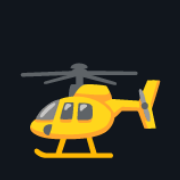
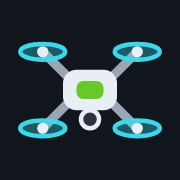
dronefly: 헬리콥터(🚁) 대신 그린 쿼드콥터 그림(img/dronefly.svg · 탭 아이콘), 신청 기본 날짜는 내일
Claude-Session: https://claude.ai/code/session_01MHSSRBsQKpCR2DHwkzaDkG

Changed region(s): [[0.0833, 0.2222, 0.9167, 0.8889]]

diff --git a/src/main/webapp/dronefly.html b/src/main/webapp/dronefly.html
@@ -12,7 +12,7 @@
 <meta property="og:description" content="내 위치가 어느 공역 안인지, 승인이 필요한지, 가까운 허용구역(UA)까지.">
 <meta property="og:image" content="https://routefly.kr/routefly/img/og.jpg?v=3">
 <meta property="og:url" content="https://routefly.kr/routefly/dronefly.html">
-<link rel="icon" type="image/png" sizes="32x32" href="img/dronefly-32.png"><link rel="icon" type="image/png" sizes="192x192" href="img/dronefly-192.png"><!-- 머리의 🚁 - Noto Color Emoji(OFL 1.1)로 그린 png -->
+<link rel="icon" type="image/png" sizes="32x32" href="img/dronefly-32.png"><link rel="icon" type="image/png" sizes="192x192" href="img/dronefly-192.png"><!-- img/dronefly.svg 쿼드콥터를 png 로 -->
 <meta name="theme-color" content="#11161d">
 <link rel="manifest" href="manifest.json">
 <link rel="apple-touch-icon" href="img/dronefly-180.png">
@@ -24,7 +24,7 @@
 <header class="top"><!-- 타이드플라이 머리와 같은 모양 -->
   <div class="wrap">
     <div class="logoRow">
-      <a class="tfLogo" href="dronefly.html" aria-label="dronefly"><span class="ic" aria-hidden="true">🚁</span><span class="wm">drone<span class="fly">fly</span></span></a>
+      <a class="tfLogo" href="dronefly.html" aria-label="dronefly"><span class="ic"><img class="dIc" src="img/dronefly.svg" width="40" height="40" alt="" aria-hidden="true"></span><!-- 드론 이모지가 없어 그린 쿼드콥터(🚁 는 헬리콥터 - 2026-11-17 홍TV님) --><span class="wm">drone<span class="fly">fly</span></span></a>
       <a id="back" class="back" href="m/">⛰ 코스 모음 ›</a>
     </div>
     <div class="crumb">

diff --git a/src/main/webapp/js/dronefly.js b/src/main/webapp/js/dronefly.js
@@ -1,5 +1,5 @@
 /*
- * 🚁 dronefly(드론) - 2026-11-17 홍TV님 "타이드플라이 바로 아래에 드론을 넣고 드론 관련 정보를"(홍TV님은 드론 교관 자격).
+ * dronefly(드론) - 2026-11-17 홍TV님 "타이드플라이 바로 아래에 드론을 넣고 드론 관련 정보를"(홍TV님은 드론 교관 자격).
  * 규칙 · 자료는 docs/dronefly/README.md. 공역은 data/drone-airspace.json(브이월드 항공 레이어)을 받아 폰 안에서만 셈 - 위치를 서버로 보내지 않음.
  * 순수 함수는 src/test/js/dronefly.test.js 가 node 로 돌림(DroneflyJsTest).
  */
@@ -178,8 +178,8 @@
   }
 
   function init() {
-    var today = new Date(Date.now() + 9 * 3600000).toISOString().slice(0, 10);
-    $('date').value = today;
+    // 기본 날짜는 내일(우리 시간) - 오늘로 두면 밤에 열었을 때 이미 지난 10:00 ~ 12:00 이 들어갔음(2026-11-17 PC)
+    $('date').value = new Date(Date.now() + 9 * 3600000 + 86400000).toISOString().slice(0, 10);
     fetch('data/drone-airspace.json').then(function (r) { return r.json(); }).then(function (d) {
       data = d;
       $('srcDate').textContent = d.src + ', ' + d.date + ' 받음';

diff --git a/src/main/webapp/privacy.html b/src/main/webapp/privacy.html
@@ -129,7 +129,7 @@ h1 { padding-right:110px; }
             고른 알림(철수 · 해 지기 전)은 이 화면을 열어 둔 동안 기기 안에서 울립니다.</p>
     </section>
     <section>
-        <h2>🚁 dronefly(드론) (2026년 11월 17일부터)</h2>
+        <h2>dronefly(드론) (2026년 11월 17일부터)</h2>
         <p>📍 내 위치로 보기를 누르면 위치는 <b>이 기기 안에서만</b> 공역(브이월드 항공 레이어 파일)과 견주는 데 쓰고 서버로 보내지 않습니다.
             장소 찾기에 적은 이름만 운영자의 서버가 카카오 · 브이월드에 물어 좌표를 받고 저장하지 않습니다. 비행승인 신청 정리 글은 화면 안에서만 만들고, 복사해 드론원스톱에 직접 붙입니다.</p>
     </section>

diff --git a/src/main/webapp/privacy-en.html b/src/main/webapp/privacy-en.html
@@ -128,7 +128,7 @@ h1 { padding-right:110px; }
             Alerts you choose (leave the rocks, before sunset) ring on the device while this page is open.</p>
     </section>
     <section>
-        <h2>🚁 dronefly (drones) (from November 17, 2026)</h2>
+        <h2>dronefly (drones) (from November 17, 2026)</h2>
         <p>When you tap "My location", your location is used <b>only on this device</b> to compare with the airspace file (V-World aviation layers) and is not sent to the server.
             Only the place name you type in the search is sent to the operator's server, which asks Kakao · V-World for its coordinates and does not store it. The flight-approval summary is made on the screen only; you copy it into Drone One-stop yourself.</p>
     </section>

diff --git a/src/main/webapp/css/dronefly.css b/src/main/webapp/css/dronefly.css
@@ -1,4 +1,4 @@
-/* 🚁 dronefly(2026-11-17) - 바탕 · 머리는 tidefly.css 를 같이 씀 */
+/* dronefly(2026-11-17) - 바탕 · 머리는 tidefly.css 를 같이 씀 */
 .dcard { margin: 12px 0 0; background: var(--card); border: 1px solid var(--line); border-radius: 12px; padding: 12px 14px; }
 .dcard h2 { margin: 0 0 4px; font-size: 1.05rem; }
 .dpick .near-btn { display: flex; justify-content: center; width: 100%; }
@@ -38,3 +38,4 @@
 :root:not([data-theme="light"]) .btn.go { color: #38d9ea; }
 .foot { margin: 16px auto 24px; font-size: .8rem; color: var(--dim); }
 .foot a { color: inherit; }
+.top .tfLogo .ic .dIc { display: block; width: 2.6rem; height: 2.6rem; }   /* 쿼드콥터 그림(드론 이모지가 없어 img/dronefly.svg) */

diff --git a/src/main/webapp/css/mountain.css b/src/main/webapp/css/mountain.css
@@ -261,3 +261,5 @@ ol.ms { margin:0; padding:0; list-style:none; }
 .season .wl li { margin:4px 0; }
 .season .now, #season .now { color:var(--sky); font-size:13px; }
 #season ol.ms span { display:inline-block; font-size:14px; padding:6px 11px; border:1px dashed var(--ln); border-radius:16px; }
+/* dronefly 줄의 쿼드콥터 그림(2026-11-17 - 🚁 는 헬리콥터) */
+.kindLink .dIc { width:1.25em; height:1.25em; vertical-align:-0.22em; }

diff --git a/src/test/java/com/gh/routefly/web/DroneflyPageTest.java b/src/test/java/com/gh/routefly/web/DroneflyPageTest.java
@@ -8,7 +8,7 @@ import java.nio.file.Path;
 
 import org.junit.Test;
 
-/** 🚁 dronefly(2026-11-17 홍TV님): 코스 모음 타이드플라이 바로 아래 입구, 꼭 넣을 것(비행금지 · 허용구역 · 비행승인 요청), 위치는 폰 안에서만. */
+/** dronefly(2026-11-17 홍TV님): 코스 모음 타이드플라이 바로 아래 입구, 꼭 넣을 것(비행금지 · 허용구역 · 비행승인 요청), 위치는 폰 안에서만. */
 public class DroneflyPageTest {
 
     private static String read(String p) throws Exception {
@@ -18,7 +18,7 @@ public class DroneflyPageTest {
     @Test
     public void 타이드플라이_바로_아래_입구() {
         String r = MountainServlet.droneflyRow();
-        assertTrue(r.contains("href=\"../dronefly.html\"") && r.contains("🚁 drone<span class=\"fly\">fly</span>(드론)"));
+        assertTrue(r.contains("href=\"../dronefly.html\"") && r.contains("<img class=\"dIc\" src=\"../img/dronefly.svg\" width=\"20\" height=\"20\" alt=\"\"> drone<span class=\"fly\">fly</span>(드론)") && !r.contains("🚁"));
     }
 
     @Test
@@ -28,6 +28,13 @@ public class DroneflyPageTest {
         assertTrue("비행승인 요청", h.contains("<h2>📝 비행승인 요청</h2>") && h.contains("href=\"https://drone.onestop.go.kr/\""));
         assertTrue("비행금지구역 판정", js.contains("'비행금지구역 - 승인 없이 날 수 없습니다'"));
         assertTrue("공역 파일을 받아 폰이 셈 - 위치를 서버로 보내는 곳 없음", js.contains("fetch('data/drone-airspace.json')") && !js.contains("api/drone") && js.contains("fetch('api/place?q=' + encodeURIComponent(q))"));
-        assertTrue("개인정보처리방침", read("src/main/webapp/privacy.html").contains("<h2>🚁 dronefly(드론) (2026년 11월 17일부터)</h2>") && read("src/main/webapp/privacy-en.html").contains("<h2>🚁 dronefly (drones) (from November 17, 2026)</h2>"));
+        assertTrue("개인정보처리방침", read("src/main/webapp/privacy.html").contains("<h2>dronefly(드론) (2026년 11월 17일부터)</h2>") && read("src/main/webapp/privacy-en.html").contains("<h2>dronefly (drones) (from November 17, 2026)</h2>"));
+    }
+
+    /** 머리 그림은 쿼드콥터(2026-11-17 홍TV님 "헬리콥터잖아. 드론으로") - 🚁 는 헬리콥터. */
+    @Test
+    public void 드론_그림은_헬리콥터가_아님() throws Exception {
+        String h = read("src/main/webapp/dronefly.html");
+        assertTrue(h.contains("<img class=\"dIc\" src=\"img/dronefly.svg\"") && !h.contains("🚁") && read("src/main/webapp/img/dronefly.svg").contains("<ellipse"));
     }
 }

diff --git a/src/test/java/com/gh/routefly/web/TideflyEntryTest.java b/src/test/java/com/gh/routefly/web/TideflyEntryTest.java
@@ -20,7 +20,7 @@ public class TideflyEntryTest {
         int bike = h.indexOf("🚴 자전거"), tf = h.indexOf("🎣 tide<span class=\"fly\">fly</span>(출조)"), stay = h.indexOf("</div>", tf);
         assertTrue(h, bike > 0 && tf > bike);
         assertTrue("자전거 칸이 닫힌 바로 뒤", h.contains("</div></details>" + MountainServlet.tideflyRow(false)));
-        // 첫 kindLink(타이드플라이) - 그 뒤에 🚁 dronefly 줄이 붙어(2026-11-17) 마지막 것을 잡던 셈을 바꿈
+        // 첫 kindLink(타이드플라이) - 그 뒤에 dronefly 줄이 붙어(2026-11-17) 마지막 것을 잡던 셈을 바꿈
         java.util.regex.Matcher m = java.util.regex.Pattern.compile("<a class=\"kindLink\" href=\"([^\"]+)\"").matcher(h);
         String href = m.find() ? m.group(1) : "";
         assertTrue("드론플라이는 타이드플라이 바로 아래", h.contains(MountainServlet.tideflyRow(false) + MountainServlet.droneflyRow()));
@@ -34,7 +34,7 @@ public class TideflyEntryTest {
         int tf = h.indexOf("🎣 tide<span class=\"fly\">fly</span>(fishing trips)");
         assertTrue(h, tf > h.indexOf("🚴"));
         // /routefly/en/m/ 에서 이 주소를 풀면 /routefly/tidefly.html 이어야 함(2026-11-15 PC: ../ 하나라 /routefly/en/tidefly.html 404)
-        // 첫 kindLink(타이드플라이) - 그 뒤에 🚁 dronefly 줄이 붙어(2026-11-17) 마지막 것을 잡던 셈을 바꿈
+        // 첫 kindLink(타이드플라이) - 그 뒤에 dronefly 줄이 붙어(2026-11-17) 마지막 것을 잡던 셈을 바꿈
         java.util.regex.Matcher m = java.util.regex.Pattern.compile("<a class=\"kindLink\" href=\"([^\"]+)\"").matcher(h);
         String href = m.find() ? m.group(1) : "";
         assertTrue("영어 화면에는 드론플라이 줄 없음(한국어 화면만)", !h.contains("dronefly.html"));

diff --git a/src/main/java/com/gh/routefly/web/MountainServlet.java b/src/main/java/com/gh/routefly/web/MountainServlet.java
@@ -1208,9 +1208,9 @@ public class MountainServlet extends HttpServlet {
                 + ")</span><span class=\"fs\">" + (en ? "Sea fishing tides · wind · waves · warnings" : "바다낚시 물때 · 바람 · 파고 · 특보") + "</span><span class=\"fa\">›</span></a>";
     }
 
-    /** 순수 함수 - 🚁 dronefly(드론) 줄(2026-11-17 홍TV님 "타이드플라이 바로 아래에 드론을"). 화면은 한국어만이라 /m/ 에만. */
+    /** 순수 함수 - dronefly(드론) 줄(쿼드콥터 그림 img/dronefly.svg - 🚁 는 헬리콥터라 안 씀)(2026-11-17 홍TV님 "타이드플라이 바로 아래에 드론을"). 화면은 한국어만이라 /m/ 에만. */
     static String droneflyRow() {
-        return "<a class=\"kindLink\" href=\"" + REL + "/dronefly.html\"><span class=\"ft\">🚁 drone<span class=\"fly\">fly</span>(드론)</span><span class=\"fs\">비행금지 · 허용구역(UA) · 비행승인 요청</span><span class=\"fa\">›</span></a>";
+        return "<a class=\"kindLink\" href=\"" + REL + "/dronefly.html\"><span class=\"ft\"><img class=\"dIc\" src=\"" + REL + "/img/dronefly.svg\" width=\"20\" height=\"20\" alt=\"\"> drone<span class=\"fly\">fly</span>(드론)</span><span class=\"fs\">비행금지 · 허용구역(UA) · 비행승인 요청</span><span class=\"fa\">›</span></a>";
     }
 
     /** 첫 단계(등산 · 걷기 · 자전거) - series.js KINDS 와 같음. */

diff --git a/CLAUDE.md b/CLAUDE.md
@@ -31,10 +31,10 @@ DB 는 routefly-batch 가 채우고, 웹은 읽기만 합니다 - 산악회 방 
   `tidefly.html` · `js/tidefly.js`(+ tidefly-early.js) · `css/tidefly.css` · `/api/tidefly`(`com.gh.routefly.tidefly`). 규칙 · 자료는 `docs/tidefly/README.md` 를 따릅니다
   (○ △ ✕ 는 기상청 특보 · 너울만, 숫자 기준 지어내지 않음 · 받은 응답 확인 전 화면 없음 · 특보구역 짝은 docs/tidefly/points-wrn-draft.md 표와 json 을 함께).
   입구: 코스 모음(/m/ · /en/m/) 등산 · 걷기 · 자전거 아래 "🎣 tidefly(출조)" 줄(`MountainServlet.tideflyRow`, 2026-11-15 홍TV님 "자전거 아래에 위치하게 해").
-  예외(2026-11-17 홍TV님 "타이드플라이 바로 아래에 드론을 넣고 드론 관련 정보를" - 홍TV님은 드론 교관 자격): 🚁 드론 공역 · 비행 정보. 지금은 자료 확인 단계 -
+  예외(2026-11-17 홍TV님 "타이드플라이 바로 아래에 드론을 넣고 드론 관련 정보를" - 홍TV님은 드론 교관 자격): 드론 공역 · 비행 정보. 지금은 자료 확인 단계 -
   web.DroneProbe 가 V-World 항공 레이어(비행금지 · 제한 · 관제권 · 군작전 · UA 공역 · 임시 · 시범구역) 응답을 src/test/resources/drone/ 에 받음. 받은 응답 확인 전 화면 없음(타이드플라이와 같은 규칙).
   비행승인 신청을 대신 보내는 공개 API 는 찾지 못함(드론원스톱 Open-API 는 기관끼리) - 확인되기 전에는 "신청할 값 정리 + 드론원스톱 열기" 까지만.
-  이름 "🚁 dronefly(드론)"(2026-11-17 홍TV님 "좋아"), 꼭 넣을 것: 비행금지구역 · 허용구역(UA 초경량비행장치공역) · 비행승인 요청.
+  이름 "dronefly(드론)"(2026-11-17 홍TV님 "좋아"), 꼭 넣을 것: 비행금지구역 · 허용구역(UA 초경량비행장치공역) · 비행승인 요청.
   첫 판(2026-11-17, 법 원문 docs/dronefly/law/): `dronefly.html` · `js/dronefly.js` · `css/dronefly.css`(바탕 · 머리는 tidefly.css) · `data/drone-airspace.json`(web.DroneAirspace 가 받은 응답에서 만듦, DroneAirspaceTest).
   입구는 /m/ 타이드플라이 줄 바로 아래(`MountainServlet.droneflyRow`, 한국어 화면만). 판정 표 · 자료는 `docs/dronefly/README.md`. 위치는 폰 안에서만 셈(서버 api 없음).
 - 안전 문구(hike.js 의 `SAFETY_KEY`)를 바꾸면 키의 버전도 올립니다(README).
@@ -50,7 +50,7 @@ DB 는 routefly-batch 가 채우고, 웹은 읽기만 합니다 - 산악회 방 
 
 - 이 PC: `.claude\run-tests.ps1 [-Only web.WebBasicsTest]` (Maven 없이 javac + JUnit 4, DB 없이 돕니다). 웹(클라우드): `LC_ALL=C.UTF-8 mvn -o test`
   (routefly 는 웹소켓을 안 써서 totonian · investing 과 달리 그대로 됩니다. 한글 파일 이름 때문에 LC_ALL 이 필요합니다).
-- 전체 테스트가 모두 통과하는 것이 정상입니다(2026-11-17 기준 613건 - dronefly DroneAirspaceTest 1 · DroneflyJsTest 1(dronefly.test.js) · DroneflyPageTest 2건, 609건 - 드론 V-World 오류 판별 DroneProbeTest 1건, 608건 - 모드 단추 아이콘만 1건, 607건 - 한/EN 모양 1건, 606건 - tidefly 찾기 Enter 1건, 605건 - tidefly 지역 순서 1건, 604건 - 산악회 줄 덮음 1건, 603건 - 끝낸 산행 알림 1건, 602건 - 데이터 삭제 요청 안내 1건, 601건 - 남은 제안 E · 곧은 선 막기 4건, 597건 - 점검 11차 CheckupRound11Test 13건(review11.test.js 포함), 584건 - 안내도 길 → GPX 편집 1건, 583건 - 올림 폴더 권한 CourseUploadPermTest 1건, 582건 - 물때표 띠 숨은 글 1건, 581건 - 자르기 밀대 10m 단추 1건, 580건 - 점검 10차 E · F · G 3건(FishNearTest 2 · CheckupRound10Test 1) · D 1건 · C 4건 · A · B CheckupRound10Test 5건 · 섬 이름 찾기 · 먼바다 규칙 · 철 날짜 · 레이더 다시 받기 4건 더함, 563건 - 금어기 LawTest 2건 · 어종 찾기 SpotsTest 1건 · 물때표 폭 · 물때 폴더 · 포털 429 · 뜰 때 시작 TideflyLayoutTest 4건 · 국가어항 PortsTest 5건 · 지방어항 1건 · 갯바위 · 선상 SpotsTest 5건 · 출입통제 ClosedTest 2건 더함, 541건 - 타이드플라이 35건 · 입구 · 머리 3건 포함(tidefly 패키지 · tidefly.test.js), 2026-11-13 기준 484건 - 점검 8차 화면 조각은 review8.test.js, 코스 정확도 점검은 CourseAccuracyTest · course-accuracy.test.js). 하나라도 실패하면 새로 깨진 것이니 고칩니다.
+- 전체 테스트가 모두 통과하는 것이 정상입니다(2026-11-17 기준 614건 - dronefly 그림 1건, 613건 - dronefly DroneAirspaceTest 1 · DroneflyJsTest 1(dronefly.test.js) · DroneflyPageTest 2건, 609건 - 드론 V-World 오류 판별 DroneProbeTest 1건, 608건 - 모드 단추 아이콘만 1건, 607건 - 한/EN 모양 1건, 606건 - tidefly 찾기 Enter 1건, 605건 - tidefly 지역 순서 1건, 604건 - 산악회 줄 덮음 1건, 603건 - 끝낸 산행 알림 1건, 602건 - 데이터 삭제 요청 안내 1건, 601건 - 남은 제안 E · 곧은 선 막기 4건, 597건 - 점검 11차 CheckupRound11Test 13건(review11.test.js 포함), 584건 - 안내도 길 → GPX 편집 1건, 583건 - 올림 폴더 권한 CourseUploadPermTest 1건, 582건 - 물때표 띠 숨은 글 1건, 581건 - 자르기 밀대 10m 단추 1건, 580건 - 점검 10차 E · F · G 3건(FishNearTest 2 · CheckupRound10Test 1) · D 1건 · C 4건 · A · B CheckupRound10Test 5건 · 섬 이름 찾기 · 먼바다 규칙 · 철 날짜 · 레이더 다시 받기 4건 더함, 563건 - 금어기 LawTest 2건 · 어종 찾기 SpotsTest 1건 · 물때표 폭 · 물때 폴더 · 포털 429 · 뜰 때 시작 TideflyLayoutTest 4건 · 국가어항 PortsTest 5건 · 지방어항 1건 · 갯바위 · 선상 SpotsTest 5건 · 출입통제 ClosedTest 2건 더함, 541건 - 타이드플라이 35건 · 입구 · 머리 3건 포함(tidefly 패키지 · tidefly.test.js), 2026-11-13 기준 484건 - 점검 8차 화면 조각은 review8.test.js, 코스 정확도 점검은 CourseAccuracyTest · course-accuracy.test.js). 하나라도 실패하면 새로 깨진 것이니 고칩니다.
 - 점검 단계마다 테스트 클래스를 둡니다(`CheckupStage1Test` 버그 · `CheckupStage2Test` 속도 · 호출 · `CheckupStage3Test` 화면 · 보안) - totonian 의 `VoidBulkV4435Test` 같은 방식.
 - 내 기록은 IndexedDB(`rf-records`), 사진은 IndexedDB(`rf-photos`), 걷는 중 저장분은 localStorage(`rf-hike-<코스>` · `-track` · `-notes`, 하루 지나면 지움).
 - course-kit.js 순수 함수는 `src/test/js/course-kit.test.js` 를 node 로 돌립니다(`CourseKitJsTest` 가 부름, node 가 없으면 건너뜀).

diff --git a/docs/dronefly/README.md b/docs/dronefly/README.md
@@ -1,4 +1,4 @@
-# 🚁 dronefly(드론) - 규칙 · 자료
+# dronefly(드론) - 규칙 · 자료
 
 2026-11-17 홍TV님(드론 교관 자격) "타이드플라이 바로 아래에 드론을 넣고 드론 관련 정보를". 꼭 넣을 것: 비행금지구역 · 허용구역(UA) · 비행승인 요청.
 
